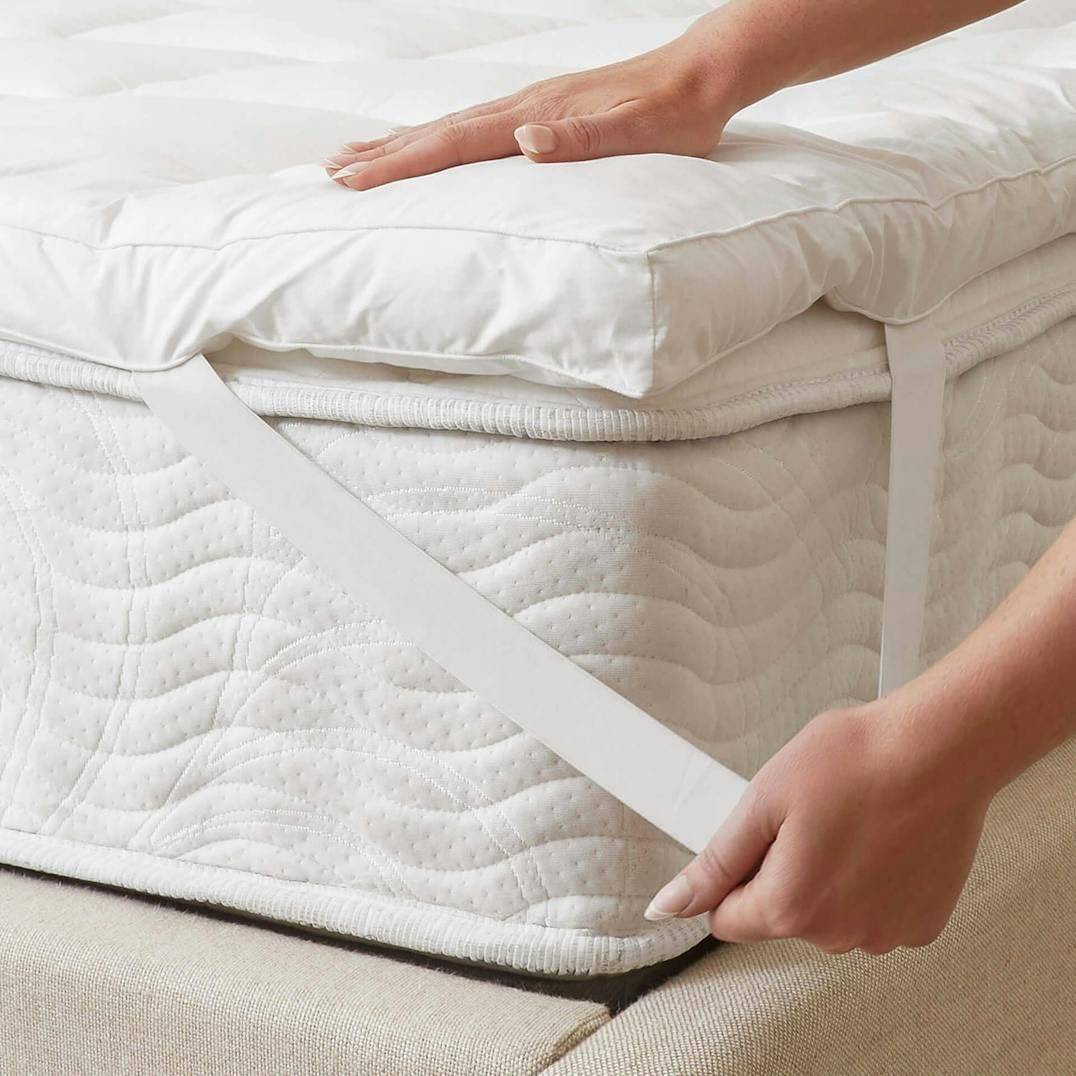
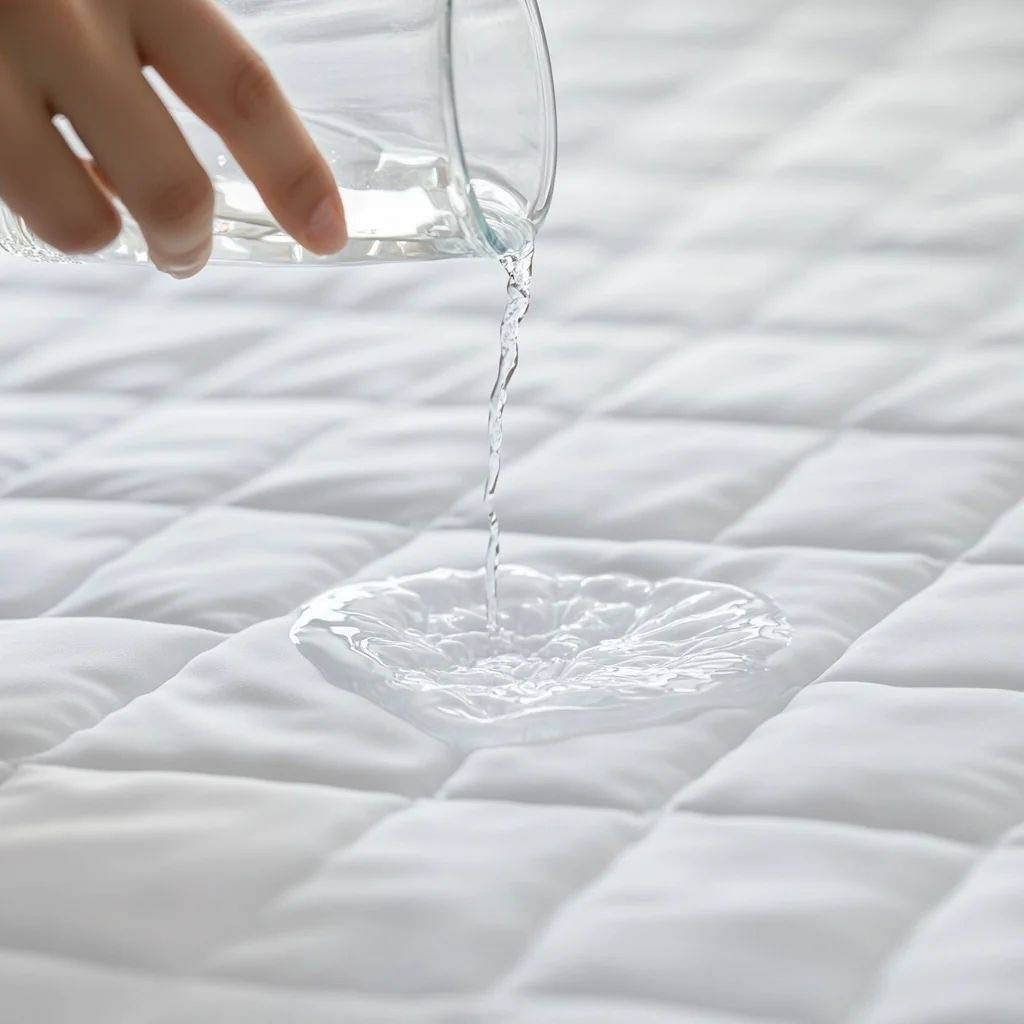
fix(tandj-bedding): update product images for protector 3.5ft and topper 6ft

diff --git a/src/app/tandj-bedding/page.tsx b/src/app/tandj-bedding/page.tsx
@@ -370,7 +370,7 @@ export default function TandJBeddingEcommercePage() {
       size: '100" x 90" (เตียง 6 ฟุต)',
       unit: 'หลัง',
       price: 2590,
-      image: '/images/tandj/catalog/topper-5ft.jpg',
+      image: '/images/tandj/catalog/topper-6ft.jpg',
       badge: 'ฟีลลิ่ง 5 ดาว',
     },
 
